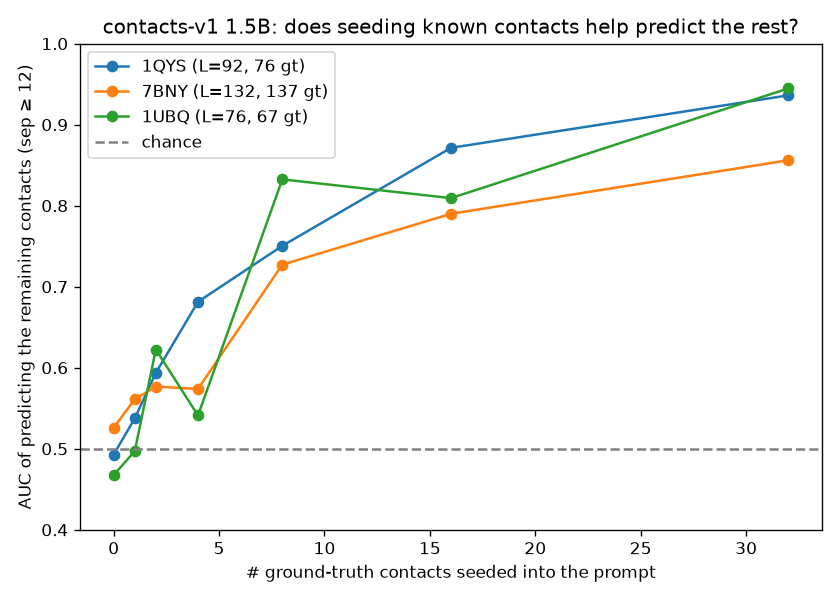
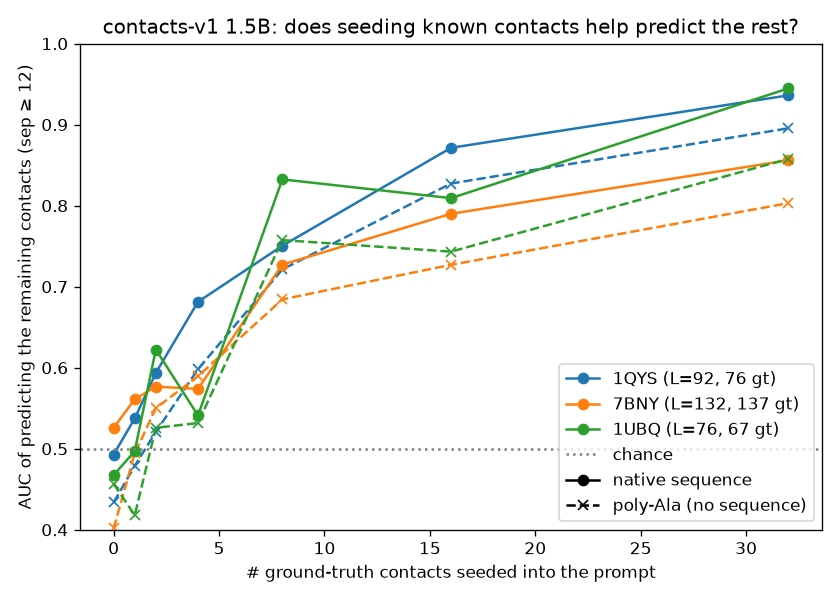
exp82: add poly-Ala control to AUC-vs-seeding plot
Replace every residue in the prompt with ALA (length + seeded contacts only,
no real sequence) and overlay as dashed lines per protein. The poly-Ala curves
track the native ones with the same shape, ~0.05-0.13 AUC lower -- so the
seeding gain is mostly contact-map topology, not sequence; the native sequence
adds only a small consistent boost.

diff --git a/experiments/exp82_evals_contacts_v1_contact_prediction/benchmark_analysis.py b/experiments/exp82_evals_contacts_v1_contact_prediction/benchmark_analysis.py
@@ -27,6 +27,8 @@ from __future__ import annotations
 
 import argparse
 import os
+import re
+from dataclasses import replace
 
 os.environ.setdefault("PYTORCH_CUDA_ALLOC_CONF", "expandable_segments:True")
 
@@ -51,6 +53,17 @@ def load_local_proteins(path):
         if p is not None:
             out.append(p)
     return out
+
+
+def poly_ala(p):
+    """Same protein with every residue identity replaced by ALA in the prompt.
+
+    Only the `<pX> <RES>` residue assignments are rewritten (n-term/c-term
+    position markers and all positions/contacts are untouched), so the model
+    sees the protein's *length* and the seeded contacts but no sequence to
+    reason about — a control for "is the model using the sequence at all?"."""
+    ala_prefix = re.sub(r"(<p\d+>\s+)<[A-Z]{3}>", r"\1<ALA>", p.prefix)
+    return replace(p, entry=f"{p.entry}-polyAla", prefix=ala_prefix)
 
 
 def gt_matrix(p):
@@ -165,9 +178,19 @@ def plot_auc_vs_seeding(proteins, cv1, ns, outdir):
         means = auc_vs_seeding(cv1, p, ns)
         xs = [n for n, m in zip(ns, means) if not np.isnan(m)]
         ys = [m for m in means if not np.isnan(m)]
-        ax.plot(xs, ys, marker="o", label=f"{p.entry} (L={p.L}, {len(p.gt)} gt)")
+        line, = ax.plot(xs, ys, marker="o", label=f"{p.entry} (L={p.L}, {len(p.gt)} gt)")
         print(f"  {p.entry}: AUC vs seeded {list(zip(ns, [round(m,3) for m in means]))}", flush=True)
-    ax.axhline(0.5, ls="--", c="grey", label="chance")
+        # poly-ALA control: same length + seeded contacts, no real sequence.
+        pa = poly_ala(p)
+        means_a = auc_vs_seeding(cv1, pa, ns)
+        xs_a = [n for n, m in zip(ns, means_a) if not np.isnan(m)]
+        ys_a = [m for m in means_a if not np.isnan(m)]
+        ax.plot(xs_a, ys_a, ls="--", marker="x", color=line.get_color())
+        print(f"  {p.entry} (poly-Ala): AUC vs seeded {list(zip(ns, [round(m,3) for m in means_a]))}", flush=True)
+    ax.axhline(0.5, ls=":", c="grey", label="chance")
+    # style proxies so the dashed-vs-solid meaning is explicit in the legend
+    ax.plot([], [], c="black", marker="o", label="native sequence")
+    ax.plot([], [], c="black", ls="--", marker="x", label="poly-Ala (no sequence)")
     ax.set_xlabel("# ground-truth contacts seeded into the prompt")
     ax.set_ylabel("AUC of predicting the remaining contacts (sep ≥ 12)")
     ax.set_title("contacts-v1 1.5B: does seeding known contacts help predict the rest?")
@@ -184,6 +207,8 @@ def main():
     ap.add_argument("--docs", required=True)
     ap.add_argument("--outdir", default="plots")
     ap.add_argument("--seed-ns", default="0,1,2,4,8,16,32")
+    ap.add_argument("--skip-heatmaps", action="store_true",
+                    help="only regenerate the AUC-vs-seeding plot (no prior model needed)")
     args = ap.parse_args()
     os.makedirs(args.outdir, exist_ok=True)
     ns = [int(x) for x in args.seed_ns.split(",")]
@@ -193,8 +218,9 @@ def main():
     cv1 = Scorer(args.cv1_model)
     prior = Scorer(args.prior_model) if args.prior_model else None
 
-    print("=== heatmaps ===", flush=True)
-    plot_heatmaps(proteins, cv1, prior, args.outdir)
+    if not args.skip_heatmaps:
+        print("=== heatmaps ===", flush=True)
+        plot_heatmaps(proteins, cv1, prior, args.outdir)
     print("=== AUC vs #seeded GT contacts (contacts-v1 model) ===", flush=True)
     plot_auc_vs_seeding(proteins, cv1, ns, args.outdir)
 

diff --git a/experiments/exp82_evals_contacts_v1_contact_prediction/README.md b/experiments/exp82_evals_contacts_v1_contact_prediction/README.md
@@ -163,6 +163,24 @@ is consistent with: a quick run learned contact-map statistics, not folding —
 and it's exactly the regime where exp27-style iterative seeding *can't*
 bootstrap, because the N=0 starting point is chance.
 
+**Poly-Ala control** (dashed lines in the plot) — re-run with every residue in
+the prompt replaced by `<ALA>`, so the model sees only the protein *length* plus
+the seeded contacts, no real sequence:
+
+| #seeded | 0 | 1 | 2 | 4 | 8 | 16 | 32 |
+|---|---|---|---|---|---|---|---|
+| 1QYS poly-Ala | 0.43 | 0.48 | 0.52 | 0.60 | 0.72 | 0.83 | 0.90 |
+| 7BNY poly-Ala | 0.40 | 0.49 | 0.55 | 0.59 | 0.68 | 0.73 | 0.80 |
+| 1UBQ poly-Ala | 0.46 | 0.42 | 0.53 | 0.53 | 0.76 | 0.74 | 0.86 |
+
+The poly-Ala curves track the native ones with the **same shape**, sitting only
+**~0.05–0.13 AUC lower** and still climbing to ~0.80–0.90 at 32 seeds. So the
+"seeding helps" effect is **almost entirely contact-map topology**, not
+sequence: given some contacts, the model ranks correlated ones from the contact
+*geometry* alone. The native sequence contributes a **small, consistent** boost
+(real but minor) — further evidence the model leans on contact-map statistics
+rather than reasoning from the sequence.
+
 ## Conclusion
 
 The quick contacts-v1 1.5B model (#67) has only a **weak** contact signal